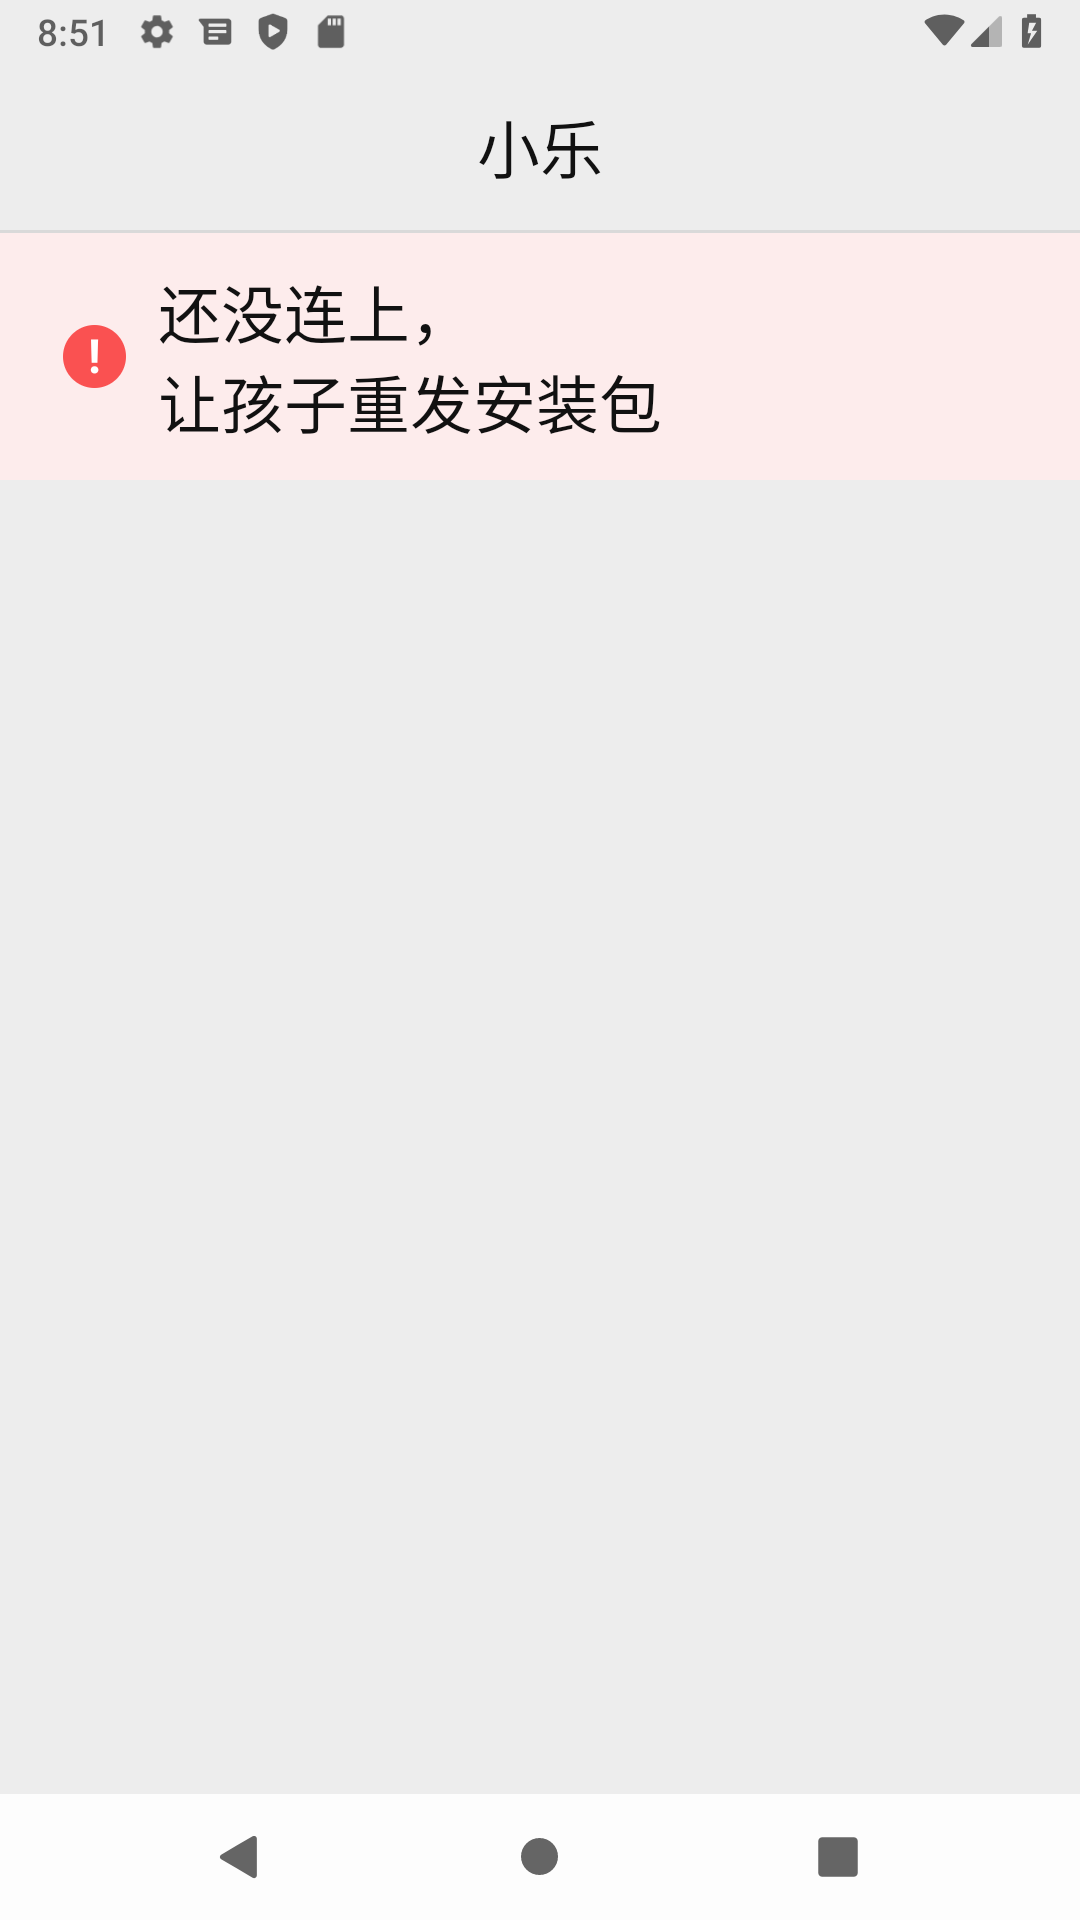
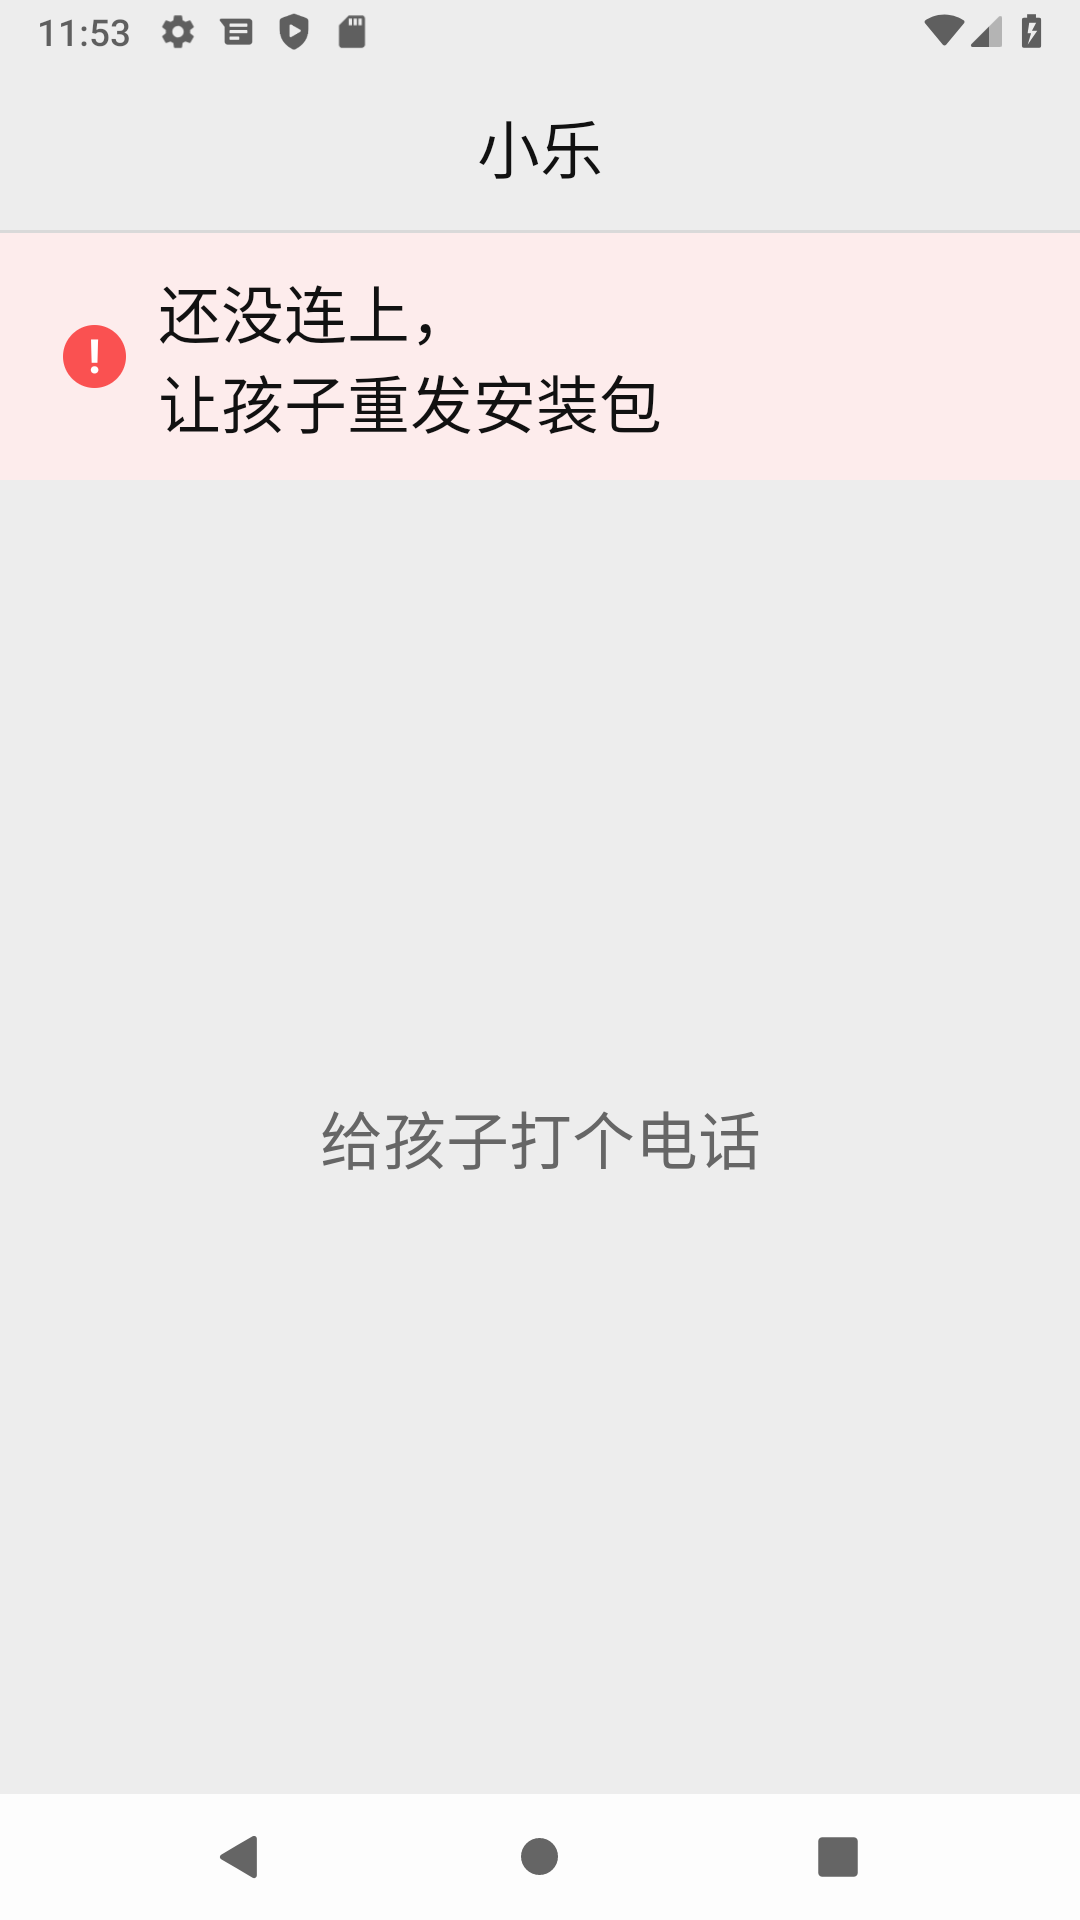
Jump to the newest line on send or reply, say call the child when unpaired, cap the type box at four lines

Changed region(s): [[0.3056, 0.5625, 0.5194, 0.625], [0.0306, 0.0, 0.3361, 0.0312], [0.55, 0.5625, 0.7028, 0.625]]

diff --git a/app/src/main/java/ai/openonion/whatcha/ChatScreen.kt b/app/src/main/java/ai/openonion/whatcha/ChatScreen.kt
@@ -28,11 +28,13 @@ import androidx.compose.foundation.layout.width
 import androidx.compose.foundation.layout.widthIn
 import androidx.compose.foundation.lazy.LazyColumn
 import androidx.compose.foundation.lazy.items
+import androidx.compose.foundation.lazy.rememberLazyListState
 import androidx.compose.foundation.shape.CircleShape
 import androidx.compose.foundation.shape.GenericShape
 import androidx.compose.foundation.shape.RoundedCornerShape
 import androidx.compose.foundation.text.BasicTextField
 import androidx.compose.runtime.Composable
+import androidx.compose.runtime.LaunchedEffect
 import androidx.compose.runtime.collectAsState
 import androidx.compose.runtime.getValue
 import androidx.compose.runtime.mutableStateOf
@@ -134,8 +136,13 @@ private fun StatusStrip(text: String) {
 }
 
 // A blank grey page gives a parent no reason to type; say what this is for until the first message.
-internal fun emptyHint(name: String, lines: List<Line>, status: Status): String? =
-    if (lines.isEmpty() && status != Status.UNPAIRED) "想知道孩子在干嘛，\n就在下面问$name，\n打字说话都行" else null
+// With no line yet the grey middle says what the parent does next: ask, or, while the Mac has not accepted
+// this phone's invite code, call the child. With history the history is the page (11d).
+internal fun emptyHint(name: String, lines: List<Line>, status: Status): String? = when {
+    lines.isNotEmpty() -> null
+    status == Status.UNPAIRED -> "给孩子打个电话"
+    else -> "想知道孩子在干嘛，\n就在下面问$name，\n打字说话都行"
+}
 
 @Composable
 private fun EmptyHint(hint: String, modifier: Modifier) {
@@ -165,8 +172,12 @@ internal fun statusText(status: Status): String? = when (status) {
 @Composable
 private fun Conversation(lines: List<Line>, agentName: String, onReplay: (String) -> Unit, onPlay: (String) -> Unit, onRetry: (Line) -> Unit, modifier: Modifier) {
     // Laid out from the bottom, as WeChat is: the end of the latest line stays in view when it is long,
-    // when a new one arrives, and when the keyboard opens and the list gets shorter.
-    LazyColumn(modifier.fillMaxWidth(), reverseLayout = true, verticalArrangement = Arrangement.spacedBy(16.dp)) {
+    // when a new one arrives, and when the keyboard opens and the list gets shorter. A new line jumps the
+    // list back to the bottom however far up the parent has scrolled: their own send, the reply they are
+    // waiting for, a failed note. Nothing arrives unasked here, so there is no 「新消息」 pill to learn.
+    val state = rememberLazyListState()
+    LaunchedEffect(lines.size) { state.scrollToItem(0) }
+    LazyColumn(modifier.fillMaxWidth(), state = state, reverseLayout = true, verticalArrangement = Arrangement.spacedBy(16.dp)) {
         item { Spacer(Modifier.size(4.dp)) }
         items(newestFirst(lines)) { row ->
             // One Column per row: in a reversed list, loose siblings are stacked bottom-up too,
@@ -391,6 +402,7 @@ private fun TypeBox(draft: String, onChange: (String) -> Unit, modifier: Modifie
         onValueChange = onChange,
         textStyle = Body,
         cursorBrush = SolidColor(Green),
+        maxLines = 4,
         modifier = modifier
             .heightIn(min = TargetSize)
             .background(Color.White, RoundedCornerShape(6.dp))

diff --git a/app/src/test/java/ai/openonion/whatcha/EmptyHintTest.kt b/app/src/test/java/ai/openonion/whatcha/EmptyHintTest.kt
@@ -16,7 +16,12 @@ class EmptyHintTest {
     }
 
     @Test
-    fun noHintWhenThereIsNothingToTypeInto() {
-        assertNull(emptyHint("小乐", emptyList(), Status.UNPAIRED))
+    fun anUnpairedEmptyChatTellsTheParentToCallTheChild() {
+        assertEquals("给孩子打个电话", emptyHint("小乐", emptyList(), Status.UNPAIRED))
+    }
+
+    @Test
+    fun anUnpairedChatWithHistoryShowsTheHistoryAndNoHint() {
+        assertNull(emptyHint("小乐", listOf(Line(fromParent = true, text = "在干嘛", at = 0)), Status.UNPAIRED))
     }
 }

diff --git a/INSTALL.zh-CN.md b/INSTALL.zh-CN.md
@@ -17,6 +17,7 @@
 ## 第一次打开
 
 - 标题是 小乐，屏幕中间写着「想知道孩子在干嘛，就在下面问小乐，打字说话都行」。这时手机已经在连 agent，不用等，直接可以用。
+- 如果标题下面是红条「还没连上，让孩子重发安装包」，中间写着「给孩子打个电话」：包里写的邀请码跟 Mac 上的不一样。回到 RUNBOOK.md 重新打一个包再装一次；或者在 Mac 上把邀请码改成包里那个，手机会自己连上。
 - **把麦克风权限先给了。** 点一下输入框左边的圆按钮，手机会问要不要允许 在干嘛 使用麦克风「手机上的原话待核对」，点 允许（有「仅使用时允许」就选它）。这一步一定要在交给爸妈之前做：爸妈按了 拒绝 两次以后，手机就不再问了，按住说话就一直不好使。
 - 打一句「在干嘛」试一下，小乐几秒内回话，会先说自己是 AI。
 - 小乐回话会读出来，想再听一遍就点一下它的话。
@@ -28,7 +29,6 @@
 - 「纯净模式已开启，无法安装」：回到第 1 个开关。
 - 「安装包解析失败」：文件在传的时候坏了，重新从电脑发一次；装的是 `.apk` 不是压缩包。
 - 手机管家弹出「风险应用」之类的提示「手机上的原话待核对」：选 继续安装 / 不再提示。装完以后可以把纯净模式再打开，已经装上的 app 不受影响。
-- 打开以后显示「还没连上，让孩子重发安装包」：包里写的邀请码跟 Mac 上的不一样。回到 RUNBOOK.md 重新打一个包再装一次；或者在 Mac 上把邀请码改成包里那个，手机会自己连上。
 
 ## 装完以后
 

diff --git a/README.md b/README.md
@@ -26,7 +26,7 @@ What works today:
 - **A photo from the album.** The ⊕ at the right of the box, where WeChat's is, opens the album; the picture is shrunk on the phone (longest side 1280px) and goes out as the parent's own picture bubble, with the same grey circle and red ! as text. 小乐 sees the picture itself and says what is in it. No new permission; the camera is next.
 - **No message is lost.** A message written while the link is down waits, with a small grey circle beside it while it is on its way, and goes out when the agent is back, including after the agent restarts. If the phone kills the app while a reply is on its way, the app picks the conversation up again on the next launch and the reply still arrives.
 - **Failures are said plainly.** If the agent fails, the message gets a red ! beside it and a grey line under it says so instead of leaving the parent waiting; a tap on the ! sends it again, and the line goes away once the message gets through.
-- **The latest line stays in view**, at any font size and with the keyboard open.
+- **The latest line stays in view**, at any font size and with the keyboard open, and the chat jumps back to the bottom when the parent sends or 小乐 answers, however far up they had scrolled.
 - **Replies are read aloud.** Tapping a reply reads it again; tapping it while it is being read stops it.
 - **History is kept** on the phone, and 小乐 remembers the conversation on its side for 30 days, so it answers 「那他吃饭了吗」 as a follow-up instead of introducing itself again.
 

diff --git a/README.zh-CN.md b/README.zh-CN.md
@@ -26,7 +26,7 @@
 - **按住说话。** 跟微信一样，输入框左边的圆按钮切换到「按住 说话」，松开就把录音原样发出去，agent 收到后自己转成文字。按不到一秒的不发，提示「说话时间太短」。点一下语音就能播放。
 - **消息不会丢。** 断线时写的消息会等着，旁边转着一个灰色小圈表示还在路上，agent 回来（包括 agent 重启）后自动发出去。回复还在路上时手机把 app 杀了，下次打开会接上原来的对话，回复照样收到。
 - **出错说人话。** agent 出错时，那条消息旁边出现红色感叹号，消息下面出一行灰字说明，不让爸妈一直干等；点一下感叹号就再发一次，发出去了灰字就消失。
-- **最新一句总在眼前**，字体调多大、键盘开着都一样。
+- **最新一句总在眼前**，字体调多大、键盘开着都一样；往上翻了多远，一发消息或小乐一回话，就自己回到最下面。
 - **回复自动朗读。** 点一下回复可以再听一遍；正在读的时候再点一下就停。
 - **聊天记录保存在手机上**，小乐那边也记得这段对话，三十天内接着聊，问「那他吃饭了吗」它知道在说谁，不会再自我介绍一遍。
 
